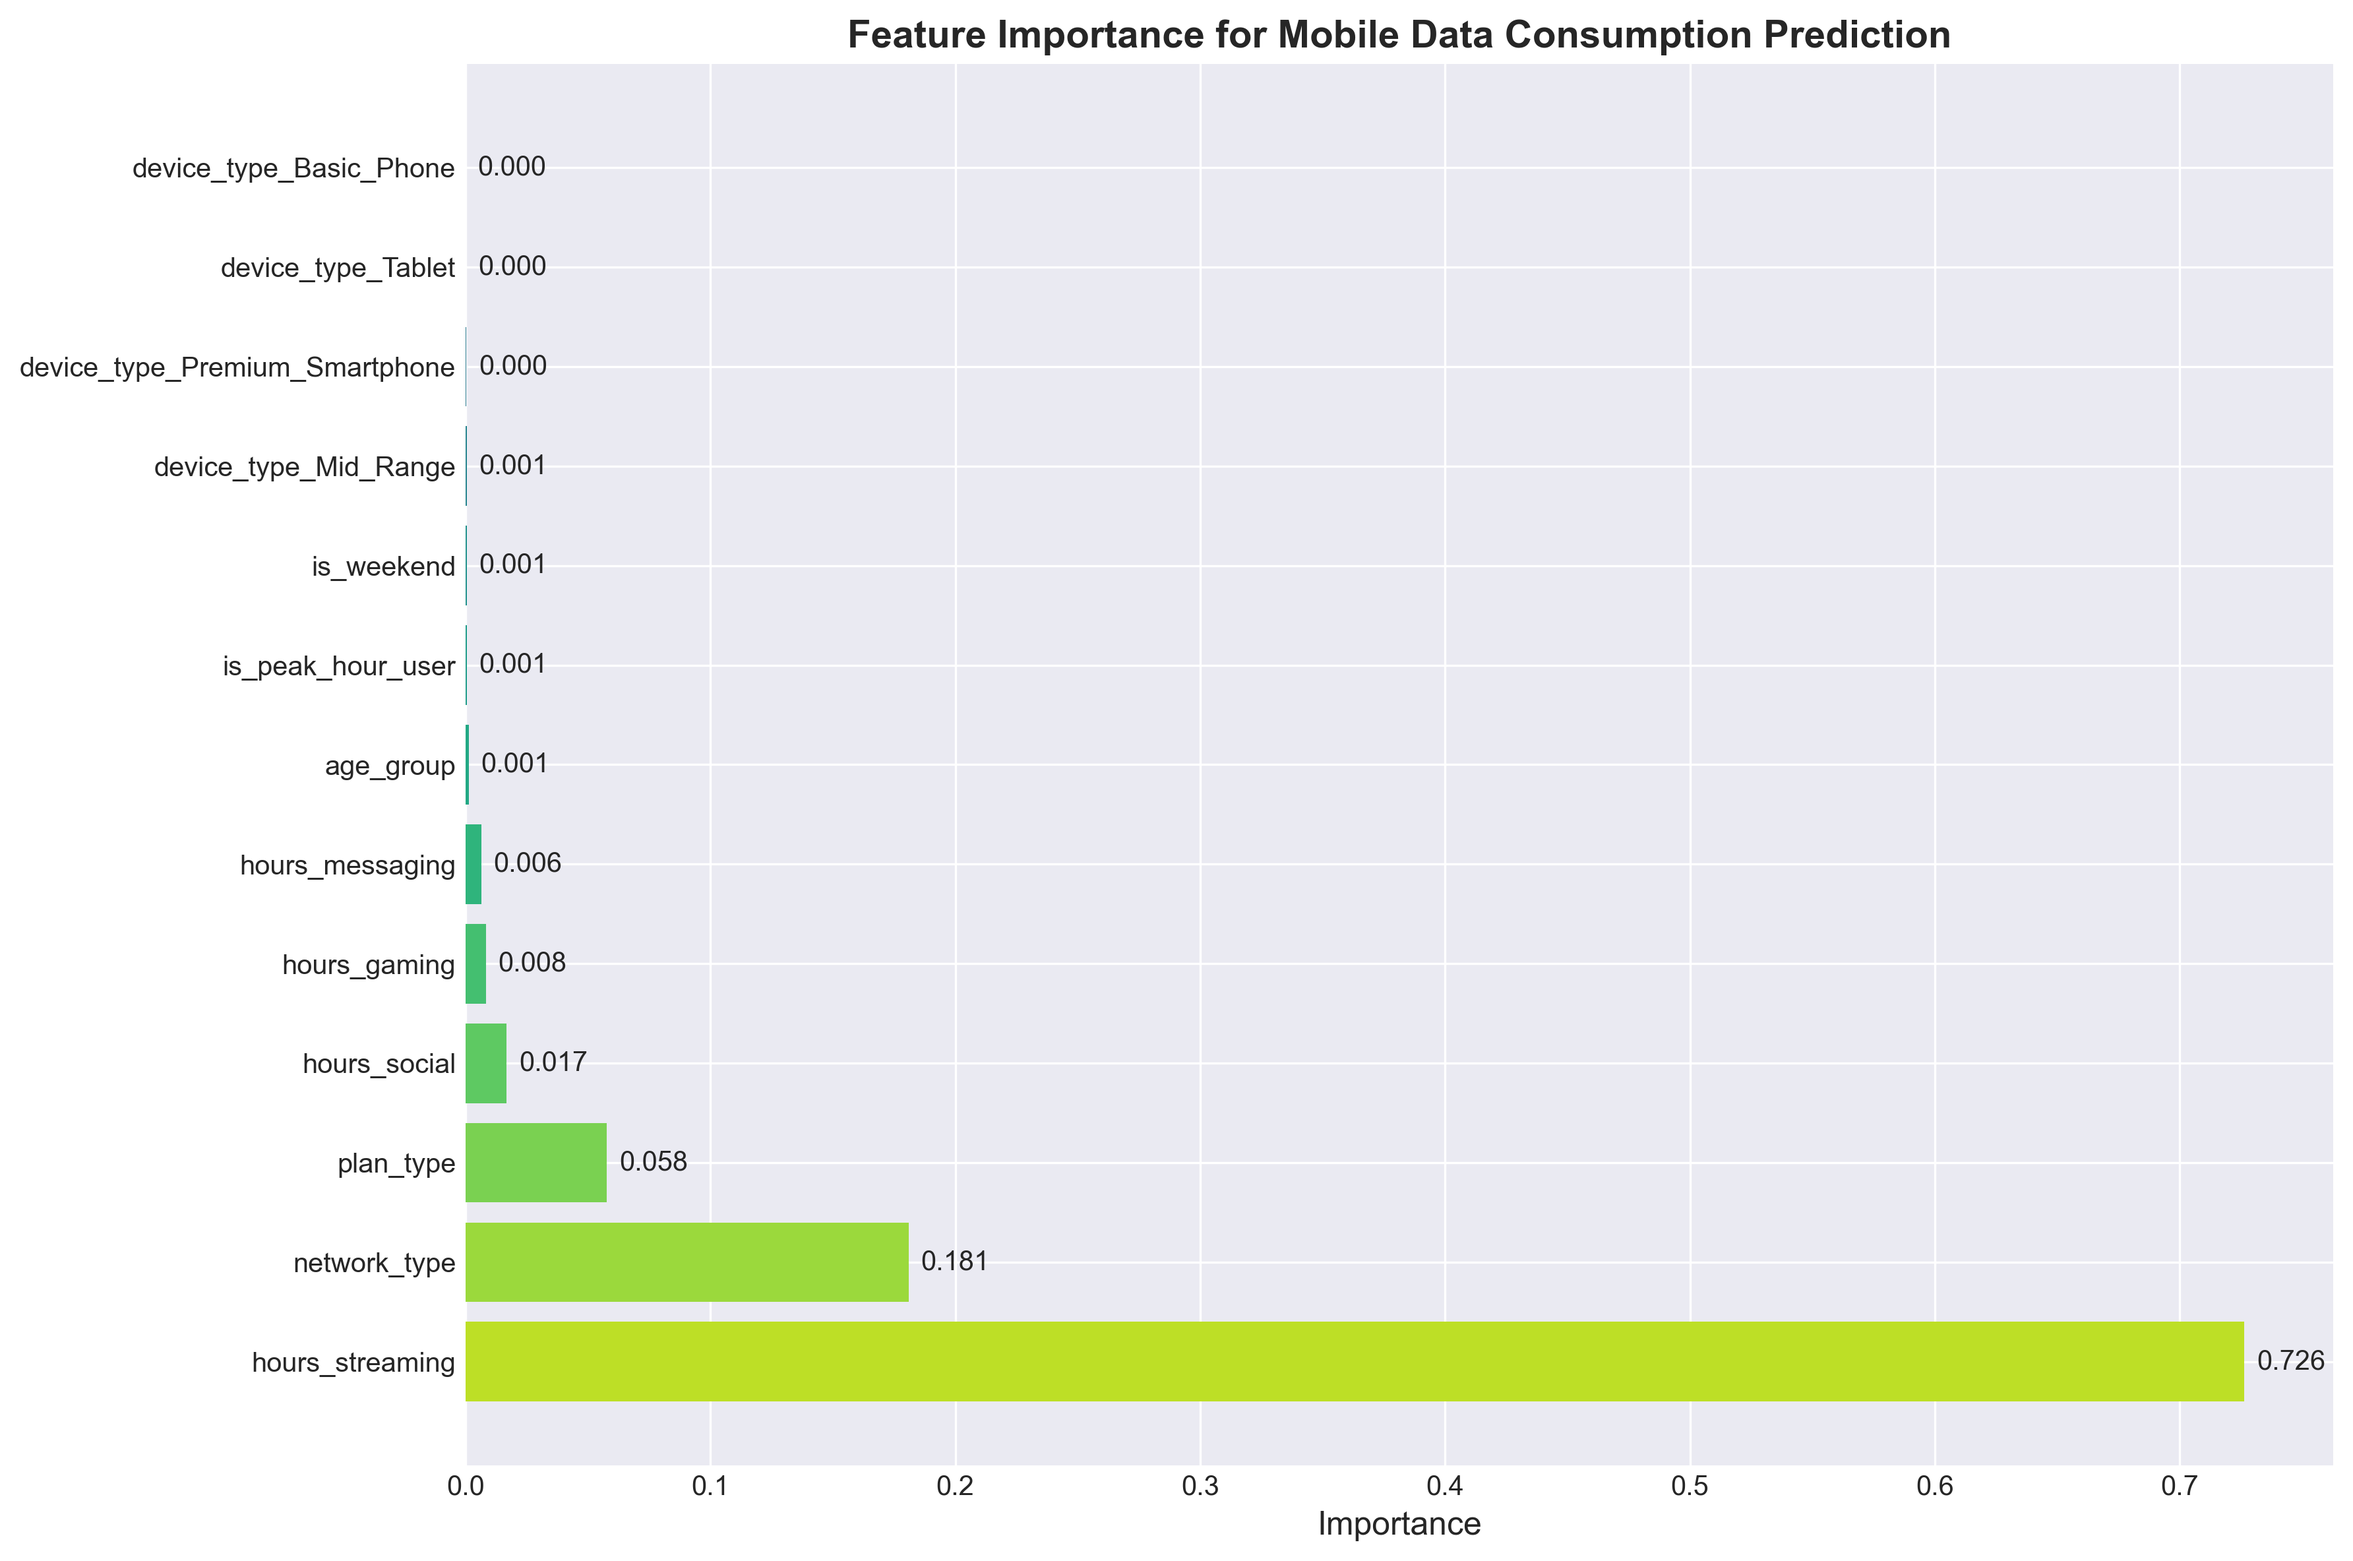
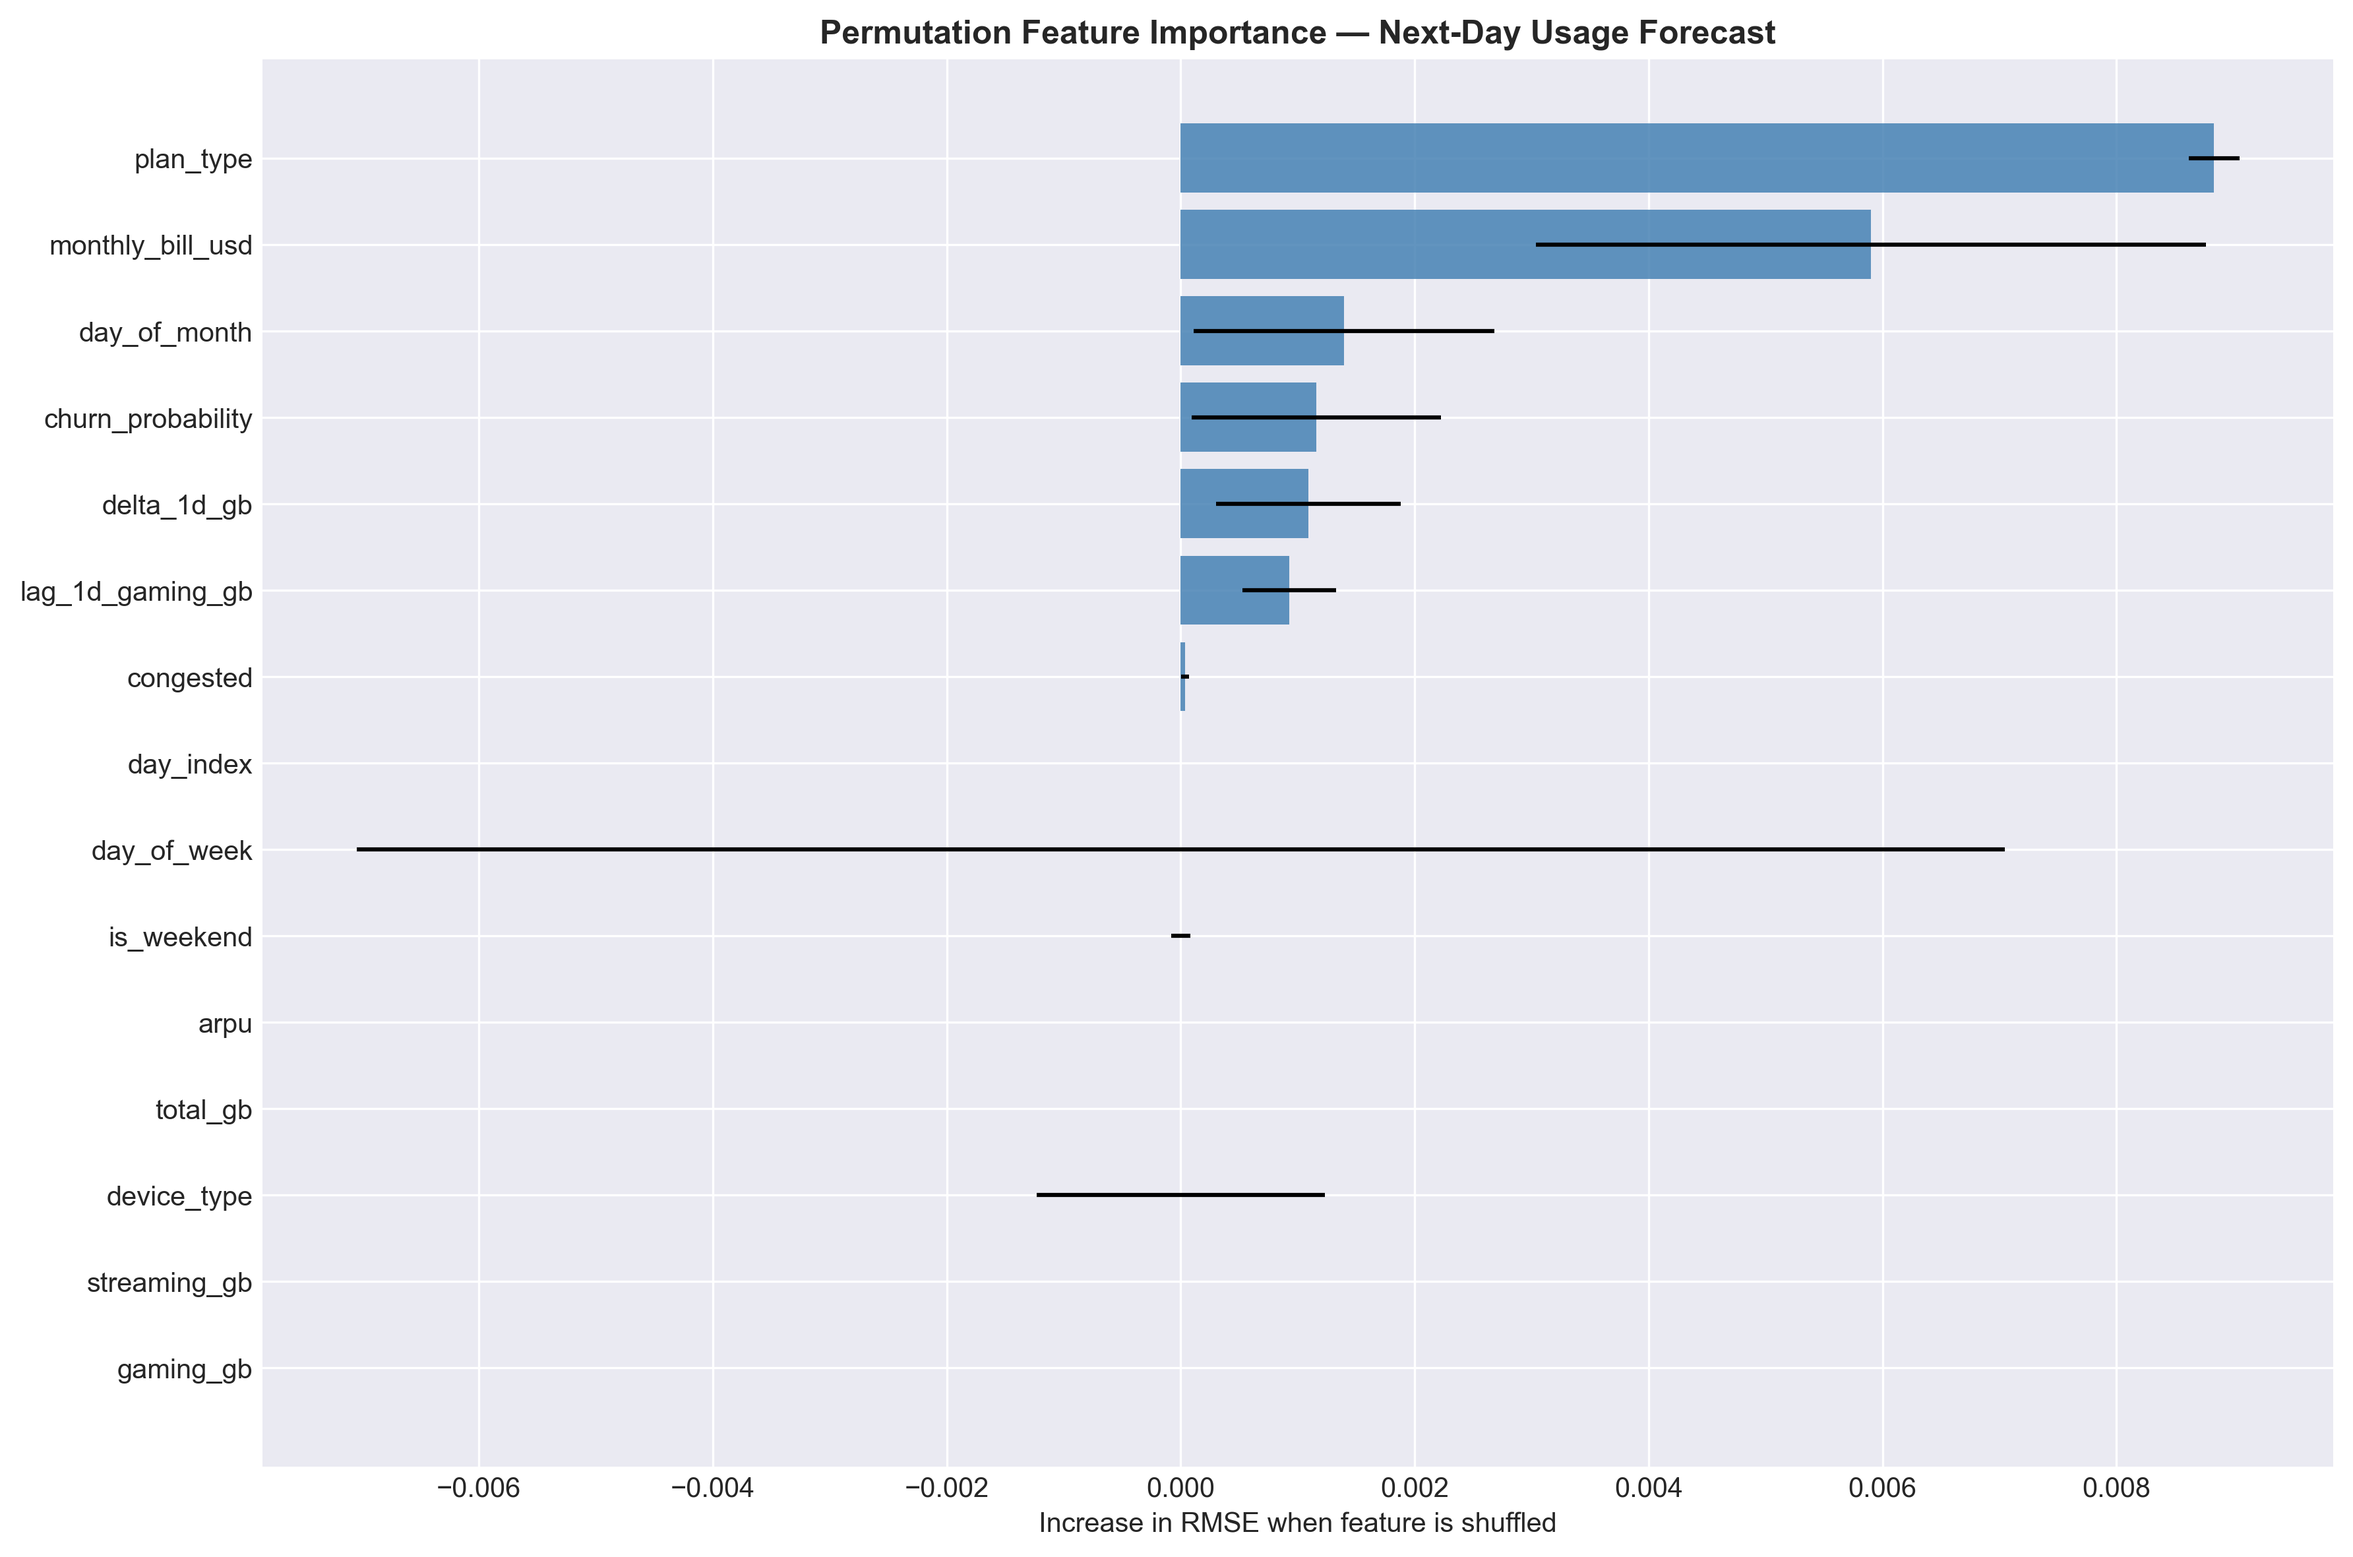
Add permutation feature importance + congestion/drift insights

diff --git a/training/models/model_insights.py b/training/models/model_insights.py
@@ -3,7 +3,7 @@
 model_insights.py — Insights and visualizations for the D+1 forecasting model.
 
 Reads the trained pipeline and the time-based test split, produces:
-- Feature importance (with the new lag-feature story)
+- Feature importance (permutation-based — works for HistGradientBoosting)
 - Actual vs predicted (scatter + residuals)
 - Distribution comparison
 - Congestion breakdown (the key business insight)
@@ -23,6 +23,8 @@ import matplotlib.pyplot as plt
 import seaborn as sns
 import warnings
 warnings.filterwarnings('ignore')
+
+from sklearn.inspection import permutation_importance
 
 plt.style.use('seaborn-v0_8-darkgrid')
 sns.set_palette("viridis")
@@ -64,67 +66,7 @@ insights_dir = reports_dir / "insights"
 insights_dir.mkdir(parents=True, exist_ok=True)
 
 # ------------------------------------------------------------------
-# FEATURE IMPORTANCE
-# ------------------------------------------------------------------
-print("\n" + "-" * 60)
-print("FEATURE IMPORTANCE")
-print("-" * 60)
-
-regressor = model.named_steps["regressor"]
-feature_names = info.get("feature_names", [])
-
-# Try to get feature names from the preprocessor
-if not feature_names:
-    try:
-        pre = model.named_steps["preprocessor"]
-        feature_names = list(pre.get_feature_names_out())
-    except Exception:
-        feature_names = [f"feature_{i}" for i in range(len(getattr(regressor, "feature_importances_", [])))]
-
-try:
-    if hasattr(regressor, "feature_importances_"):
-        importance = regressor.feature_importances_
-        # Align lengths if there's a mismatch
-        n = min(len(feature_names), len(importance))
-        feature_names = feature_names[:n]
-        importance = importance[:n]
-
-        importance_df = pd.DataFrame({
-            "feature": feature_names,
-            "importance": importance,
-        }).sort_values("importance", ascending=False)
-
-        print("\n Top 15 Features:")
-        for _, row in importance_df.head(15).iterrows():
-            print(f"  {row['feature']:35s}: {row['importance']:.4f}")
-
-        importance_df.to_csv(reports_dir / "feature_importance.csv", index=False)
-        print(f"\n Saved: {reports_dir / 'feature_importance.csv'}")
-
-        # Plot
-        top = importance_df.head(15)
-        plt.figure(figsize=(12, 8))
-        colors = plt.cm.viridis(np.linspace(0.3, 0.9, len(top)))[::-1]
-        bars = plt.barh(top["feature"], top["importance"], color=colors)
-        for bar in bars:
-            w = bar.get_width()
-            plt.text(w + 0.002, bar.get_y() + bar.get_height() / 2,
-                     f"{w:.3f}", va="center", fontsize=9)
-        plt.gca().invert_yaxis()
-        plt.xlabel("Importance")
-        plt.title("Feature Importance — Next-Day Usage Forecast", fontweight="bold")
-        plt.tight_layout()
-        plt.savefig(insights_dir / "feature_importance.png", dpi=300, bbox_inches="tight")
-        plt.close()
-        print(f"  Plot saved: {insights_dir / 'feature_importance.png'}")
-    else:
-        print(" Regressor has no feature_importances_ (likely HistGradientBoosting).")
-        print(" Skipping importance plot — use permutation importance if needed.")
-except Exception as e:
-    print(f" Error extracting feature importance: {e}")
-
-# ------------------------------------------------------------------
-# LOAD TEST SPLIT
+# LOAD TEST SPLIT (needed before feature importance)
 # ------------------------------------------------------------------
 print("\n" + "-" * 60)
 print("TEST SET EVALUATION")
@@ -144,9 +86,6 @@ if TARGET not in test_data.columns:
     print(f" Target column '{TARGET}' not found.")
     sys.exit(1)
 
-# ------------------------------------------------------------------
-# PREDICT
-# ------------------------------------------------------------------
 X_test = test_data.drop(columns=[TARGET, "user_id", "date"], errors="ignore")
 y_actual = test_data[TARGET].values
 y_predicted = model.predict(X_test)
@@ -167,9 +106,73 @@ print(f"  MAE:  {mae:.4f}")
 print(f"  R²:   {r2:.4f}")
 
 # ------------------------------------------------------------------
+# FEATURE IMPORTANCE — permutation-based, works for any model
+# ------------------------------------------------------------------
+print("\n" + "-" * 60)
+print("FEATURE IMPORTANCE (Permutation)")
+print("-" * 60)
+
+# Sample for speed if the test set is large
+SAMPLE_N = min(50_000, len(X_test))
+X_sample = X_test.sample(n=SAMPLE_N, random_state=42)
+y_sample = pd.Series(y_actual, index=test_data.index).loc[X_sample.index].values
+
+print(f" Computing on {SAMPLE_N:,} rows × {X_sample.shape[1]} features "
+      f"(5 repeats — may take 30–90s)...")
+sys.stdout.flush()
+
+try:
+    perm_result = permutation_importance(
+        model,
+        X_sample,
+        y_sample,
+        n_repeats=5,
+        random_state=42,
+        n_jobs=-1,
+        scoring="neg_root_mean_squared_error",
+    )
+
+    # importance_mean is negative (sklearn convention: higher = better).
+    # Flip and clip so we report "increase in RMSE when shuffled".
+    importance_df = pd.DataFrame({
+        "feature":         X_sample.columns,
+        "importance_mean": (-perm_result.importances_mean).clip(min=0),
+        "importance_std":  perm_result.importances_std,
+    }).sort_values("importance_mean", ascending=False)
+
+    print("\n Top 15 Features (increase in RMSE when shuffled):")
+    print("-" * 60)
+    for _, row in importance_df.head(15).iterrows():
+        print(f"  {row['feature']:35s}: {row['importance_mean']:.4f} "
+              f"(±{row['importance_std']:.4f})")
+
+    importance_df.to_csv(reports_dir / "feature_importance.csv", index=False)
+    print(f"\n Saved: {reports_dir / 'feature_importance.csv'}")
+
+    # Plot
+    top = importance_df.head(15).iloc[::-1]  # reverse for horizontal bar
+    plt.figure(figsize=(12, 8))
+    plt.barh(top["feature"], top["importance_mean"],
+             xerr=top["importance_std"], color="steelblue", alpha=0.85)
+    plt.xlabel("Increase in RMSE when feature is shuffled")
+    plt.title("Permutation Feature Importance — Next-Day Usage Forecast",
+              fontweight="bold")
+    plt.tight_layout()
+    plt.savefig(insights_dir / "feature_importance.png", dpi=300, bbox_inches="tight")
+    plt.close()
+    print(f"  Plot saved: {insights_dir / 'feature_importance.png'}")
+
+except Exception as e:
+    print(f" Error computing permutation importance: {e}")
+    import traceback
+    traceback.print_exc()
+
+# ------------------------------------------------------------------
 # 1. ACTUAL VS PREDICTED
 # ------------------------------------------------------------------
-print("\n Generating plots...")
+print("\n" + "-" * 60)
+print("GENERATING PLOTS")
+print("-" * 60)
 
 plt.figure(figsize=(10, 8))
 plt.scatter(y_actual, y_predicted, alpha=0.3, s=8, c="steelblue")
@@ -254,14 +257,14 @@ if "congested" in X_test.columns:
         if len(sub) == 0:
             continue
         row = {
-            "condition": label,
-            "n": len(sub),
+            "condition":    label,
+            "n":            len(sub),
             "avg_actual_gb": sub[TARGET].mean(),
-            "avg_pred_gb": sub["pred"].mean(),
-            "avg_abs_err": sub["abs_err"].mean(),
-            "rmse": np.sqrt(np.mean((sub[TARGET] - sub["pred"]) ** 2)),
-            "r2": 1 - np.sum((sub[TARGET] - sub["pred"]) ** 2) /
-                  np.sum((sub[TARGET] - sub[TARGET].mean()) ** 2),
+            "avg_pred_gb":   sub["pred"].mean(),
+            "avg_abs_err":   sub["abs_err"].mean(),
+            "rmse":          np.sqrt(np.mean((sub[TARGET] - sub["pred"]) ** 2)),
+            "r2":            1 - np.sum((sub[TARGET] - sub["pred"]) ** 2) /
+                             np.sum((sub[TARGET] - sub[TARGET].mean()) ** 2),
         }
         congest_summary.append(row)
         print(f"\n {label} (n={row['n']:,})")
@@ -274,23 +277,28 @@ if "congested" in X_test.columns:
     if len(congest_summary) == 2:
         normal = congest_summary[0]
         cong = congest_summary[1]
-        err_ratio = cong["avg_abs_err"] / normal["avg_abs_err"] if normal["avg_abs_err"] > 0 else float("inf")
-        usage_drop = (1 - cong["avg_actual_gb"] / normal["avg_actual_gb"]) * 100 if normal["avg_actual_gb"] > 0 else 0
+        err_ratio = (cong["avg_abs_err"] / normal["avg_abs_err"]
+                     if normal["avg_abs_err"] > 0 else float("inf"))
+        usage_drop = (1 - cong["avg_actual_gb"] / normal["avg_actual_gb"]) * 100 \
+                     if normal["avg_actual_gb"] > 0 else 0
         print(f"\n KEY INSIGHT:")
         print(f"   Congestion reduces actual usage by {usage_drop:.1f}%")
         print(f"   But increases prediction error {err_ratio:.2f}x")
 
-    pd.DataFrame(congest_summary).to_csv(reports_dir / "congestion_breakdown.csv", index=False)
+    pd.DataFrame(congest_summary).to_csv(
+        reports_dir / "congestion_breakdown.csv", index=False
+    )
     print(f"\n Saved: {reports_dir / 'congestion_breakdown.csv'}")
 
-    # Plot
     fig, axes = plt.subplots(1, 2, figsize=(14, 5))
     labels = [r["condition"] for r in congest_summary]
-    axes[0].bar(labels, [r["avg_actual_gb"] for r in congest_summary], color=["#5c6bc0", "#ef5350"])
+    axes[0].bar(labels, [r["avg_actual_gb"] for r in congest_summary],
+                color=["#5c6bc0", "#ef5350"])
     axes[0].set_ylabel("Avg Actual Usage (GB)")
     axes[0].set_title("Usage by Network Condition", fontweight="bold")
 
-    axes[1].bar(labels, [r["avg_abs_err"] for r in congest_summary], color=["#5c6bc0", "#ef5350"])
+    axes[1].bar(labels, [r["avg_abs_err"] for r in congest_summary],
+                color=["#5c6bc0", "#ef5350"])
     axes[1].set_ylabel("Avg Absolute Error (GB)")
     axes[1].set_title("Prediction Error by Condition", fontweight="bold")
 
@@ -305,7 +313,7 @@ else:
 # 5. DRIFT BREAKDOWN
 # ------------------------------------------------------------------
 print("\n" + "-" * 60)
-print("DRIFT INSIGHT (day_index >= 45)")
+print(f"DRIFT INSIGHT (day_index >= {DRIFT_DAY})")
 print("-" * 60)
 
 if "day_index" in X_test.columns:
@@ -321,11 +329,11 @@ if "day_index" in X_test.columns:
         r2_sub = 1 - np.sum((sub[TARGET] - sub["pred"]) ** 2) / \
                  np.sum((sub[TARGET] - sub[TARGET].mean()) ** 2)
         row = {
-            "window": label,
-            "n": len(sub),
+            "window":       label,
+            "n":            len(sub),
             "avg_actual_gb": sub[TARGET].mean(),
-            "avg_abs_err": np.abs(sub[TARGET] - sub["pred"]).mean(),
-            "r2": r2_sub,
+            "avg_abs_err":  np.abs(sub[TARGET] - sub["pred"]).mean(),
+            "r2":           r2_sub,
         }
         drift_summary.append(row)
         print(f"\n {label} (n={row['n']:,})")
@@ -333,7 +341,9 @@ if "day_index" in X_test.columns:
         print(f"   Avg |error|:  {row['avg_abs_err']:.4f} GB")
         print(f"   R²:           {row['r2']:.4f}")
 
-    pd.DataFrame(drift_summary).to_csv(reports_dir / "drift_breakdown.csv", index=False)
+    pd.DataFrame(drift_summary).to_csv(
+        reports_dir / "drift_breakdown.csv", index=False
+    )
     print(f"\n Saved: {reports_dir / 'drift_breakdown.csv'}")
 else:
     print(" 'day_index' column not in test set — skipping.")
@@ -341,7 +351,11 @@ else:
 # ------------------------------------------------------------------
 # SAVE PREDICTIONS
 # ------------------------------------------------------------------
-preds_df = test_data[["user_id", "date", TARGET]].copy() if "user_id" in test_data.columns else test_data[[TARGET]].copy()
+if "user_id" in test_data.columns and "date" in test_data.columns:
+    preds_df = test_data[["user_id", "date", TARGET]].copy()
+else:
+    preds_df = test_data[[TARGET]].copy()
+
 preds_df["predicted"] = y_predicted
 preds_df["residual"] = residuals
 preds_df["abs_error"] = np.abs(residuals)
